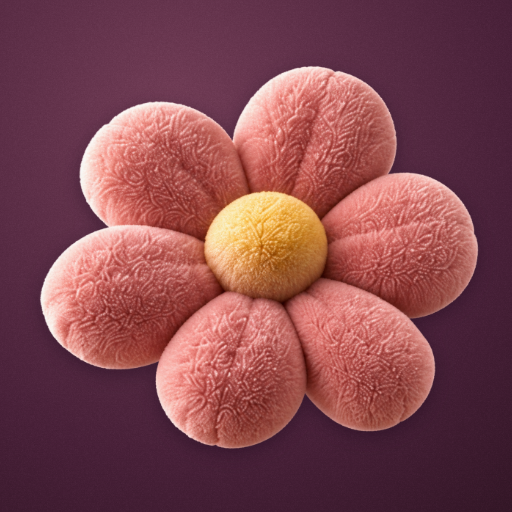
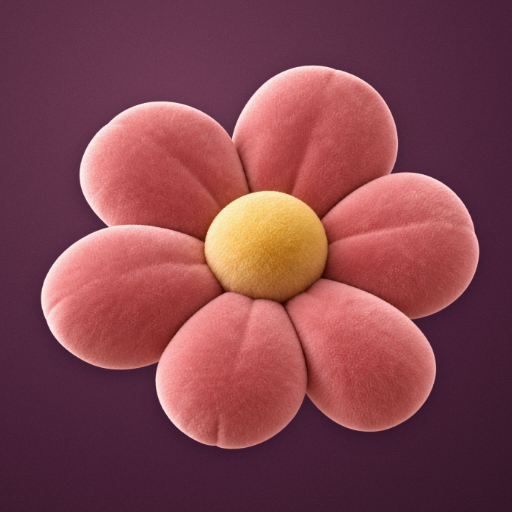
Use smooth velour flower for brand assets

diff --git a/site/index.html b/site/index.html
@@ -9,7 +9,7 @@
 <meta property="og:title" content="Ezra Seal">
 <meta property="og:description" content="Product design · 0→1">
 <meta property="og:url" content="https://links.sealandco.studio/">
-<meta property="og:image" content="https://links.sealandco.studio/assets/share-card.png">
+<meta property="og:image" content="https://links.sealandco.studio/assets/share-card.png?v=b86e750f">
 <meta property="og:image:width" content="1200">
 <meta property="og:image:height" content="630">
 <meta property="og:image:type" content="image/png">
@@ -18,11 +18,11 @@
 <meta name="twitter:card" content="summary_large_image">
 <meta name="twitter:title" content="Ezra Seal">
 <meta name="twitter:description" content="Product design · 0→1">
-<meta name="twitter:image" content="https://links.sealandco.studio/assets/share-card.png">
+<meta name="twitter:image" content="https://links.sealandco.studio/assets/share-card.png?v=b86e750f">
 <meta name="twitter:image:alt" content="A pink velour flower beside Ezra Seal">
-<link rel="icon" href="assets/flower-32.png" type="image/png" sizes="32x32">
-<link rel="apple-touch-icon" href="assets/apple-touch-icon.png" sizes="180x180">
-<link rel="manifest" href="manifest.webmanifest">
+<link rel="icon" href="assets/flower-32.png?v=a15a85d4" type="image/png" sizes="32x32">
+<link rel="apple-touch-icon" href="assets/apple-touch-icon.png?v=c2706bef" sizes="180x180">
+<link rel="manifest" href="manifest.webmanifest?v=644b53f657963df9">
 <link rel="stylesheet" href="assets/iphone-17-pro.css" media="(min-width:700px)">
 <link rel="stylesheet" href="style.css">
 </head><body>
